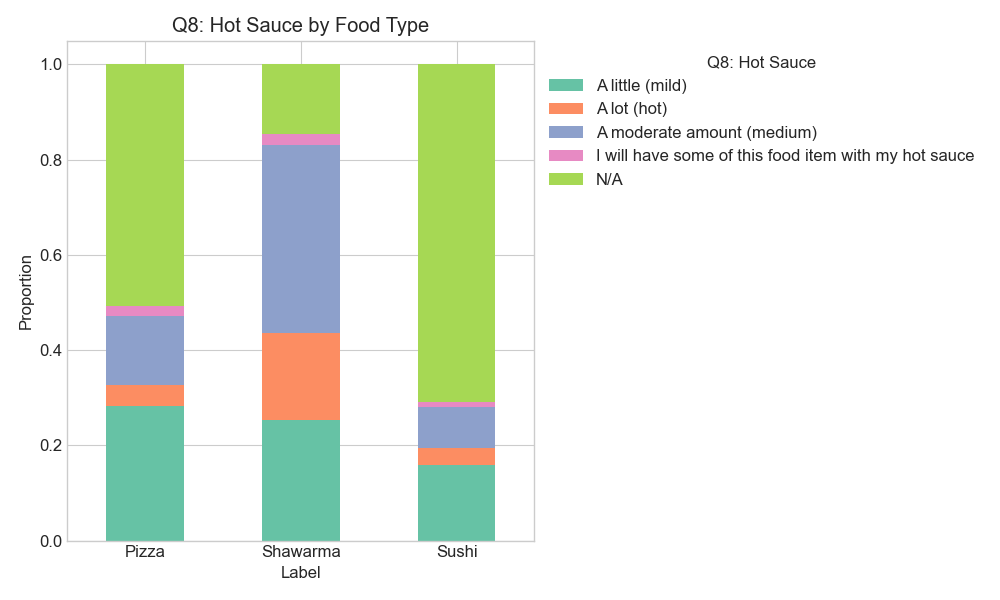
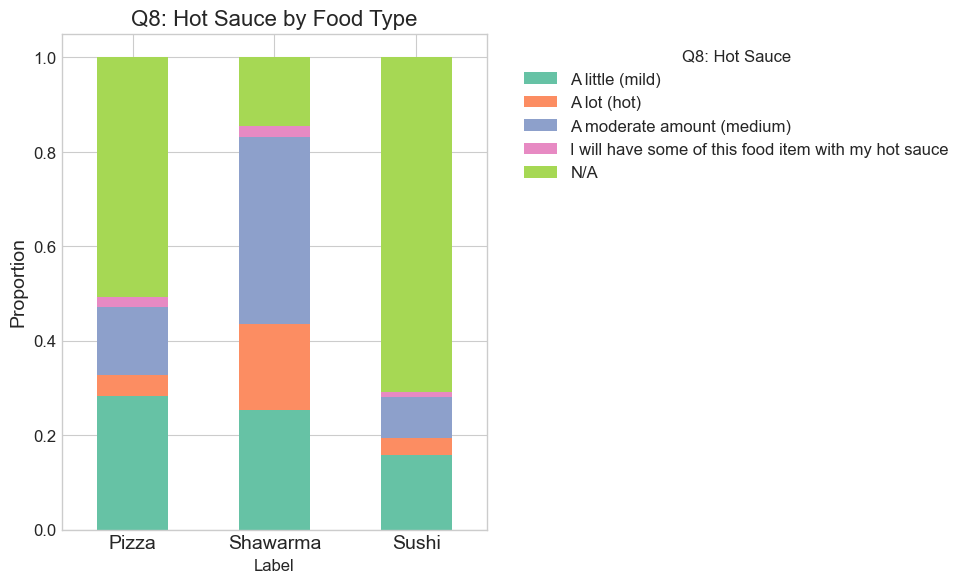
fixed graph

Changed region(s): [[0.0, 0.0, 0.5285, 0.988], [0.5285, 0.1235, 0.9948, 0.3087], [0.6839, 0.0926, 0.8394, 0.1235]]

diff --git a/FoodPredictor/data_analysis.py b/FoodPredictor/data_analysis.py
@@ -195,23 +195,58 @@ def analyze_label_correlations(df):
     ]
     
     for col in categorical_cols:
-        plt.figure(figsize=(15, 10))
+        # Create a larger figure to accommodate labels
+        plt.figure(figsize=(18, 12))
         
         short_col = QUESTION_MAPPING.get(col, col)
         simple_name = short_col.split(':')[0].strip().lower()
         
-        # Create a cross-tabulation
-        cross_tab = pd.crosstab(df['Label'], df[col])
-        cross_tab_norm = cross_tab.div(cross_tab.sum(axis=1), axis=0)
+        # Special handling for Q3 to fix duplicate/messy categories
+        if col == "Q3: In what setting would you expect this food to be served? Please check all that apply":
+            # Extract the main categories from the responses
+            main_categories = [
+                "Week day lunch", "Week day dinner", "Weekend lunch", 
+                "Weekend dinner", "At a party", "Late night snack"
+            ]
+            
+            # Create a new DataFrame to hold binary indicators for each category
+            binary_df = pd.DataFrame(index=df.index)
+            for category in main_categories:
+                # If the category appears in the response string, mark it as 1
+                binary_df[category] = df[col].str.contains(category).astype(int)
+            
+            # Group by label and calculate proportion for each category
+            grouped = binary_df.groupby(df['Label']).mean()
+            
+            # Create a grouped bar plot instead of stacked
+            ax = grouped.plot(kind='bar', figsize=(18, 10))
+            plt.title(f"{short_col} by Food Type", fontsize=16)
+            plt.ylabel("Proportion", fontsize=14)
+            plt.xticks(rotation=0, fontsize=14)
+            plt.legend(fontsize=12)
+            
+            # Adjust the legend position
+            plt.legend(title=short_col, bbox_to_anchor=(1.05, 1), 
+                      loc='upper left', fontsize=12)
+            
+        else:
+            # Regular processing for other columns
+            # Create a cross-tabulation
+            cross_tab = pd.crosstab(df['Label'], df[col])
+            cross_tab_norm = cross_tab.div(cross_tab.sum(axis=1), axis=0)
+            
+            # Plot normalized stacked bar chart
+            ax = cross_tab_norm.plot(kind='bar', stacked=True)
+            plt.title(f"{short_col} by Food Type", fontsize=16)
+            plt.ylabel("Proportion", fontsize=14)
+            plt.xticks(rotation=0, fontsize=14)
+            
+            # For other questions, just place the legend outside
+            plt.legend(title=short_col, bbox_to_anchor=(1.05, 1), 
+                      loc='upper left', fontsize=12)
         
-        # Plot normalized stacked bar chart
-        cross_tab_norm.plot(kind='bar', stacked=True)
-        plt.title(f"{short_col} by Food Type")
-        plt.ylabel("Proportion")
-        plt.xticks(rotation=0)
-        plt.legend(title=short_col, bbox_to_anchor=(1, 1))
         plt.tight_layout()
-        plt.savefig(f"{OUTPUT_DIR}/{simple_name}_by_label.png")
+        plt.savefig(f"{OUTPUT_DIR}/{simple_name}_by_label.png", bbox_inches='tight')
         plt.close()
     
     # Analyze text features (Q5, Q6) by label
